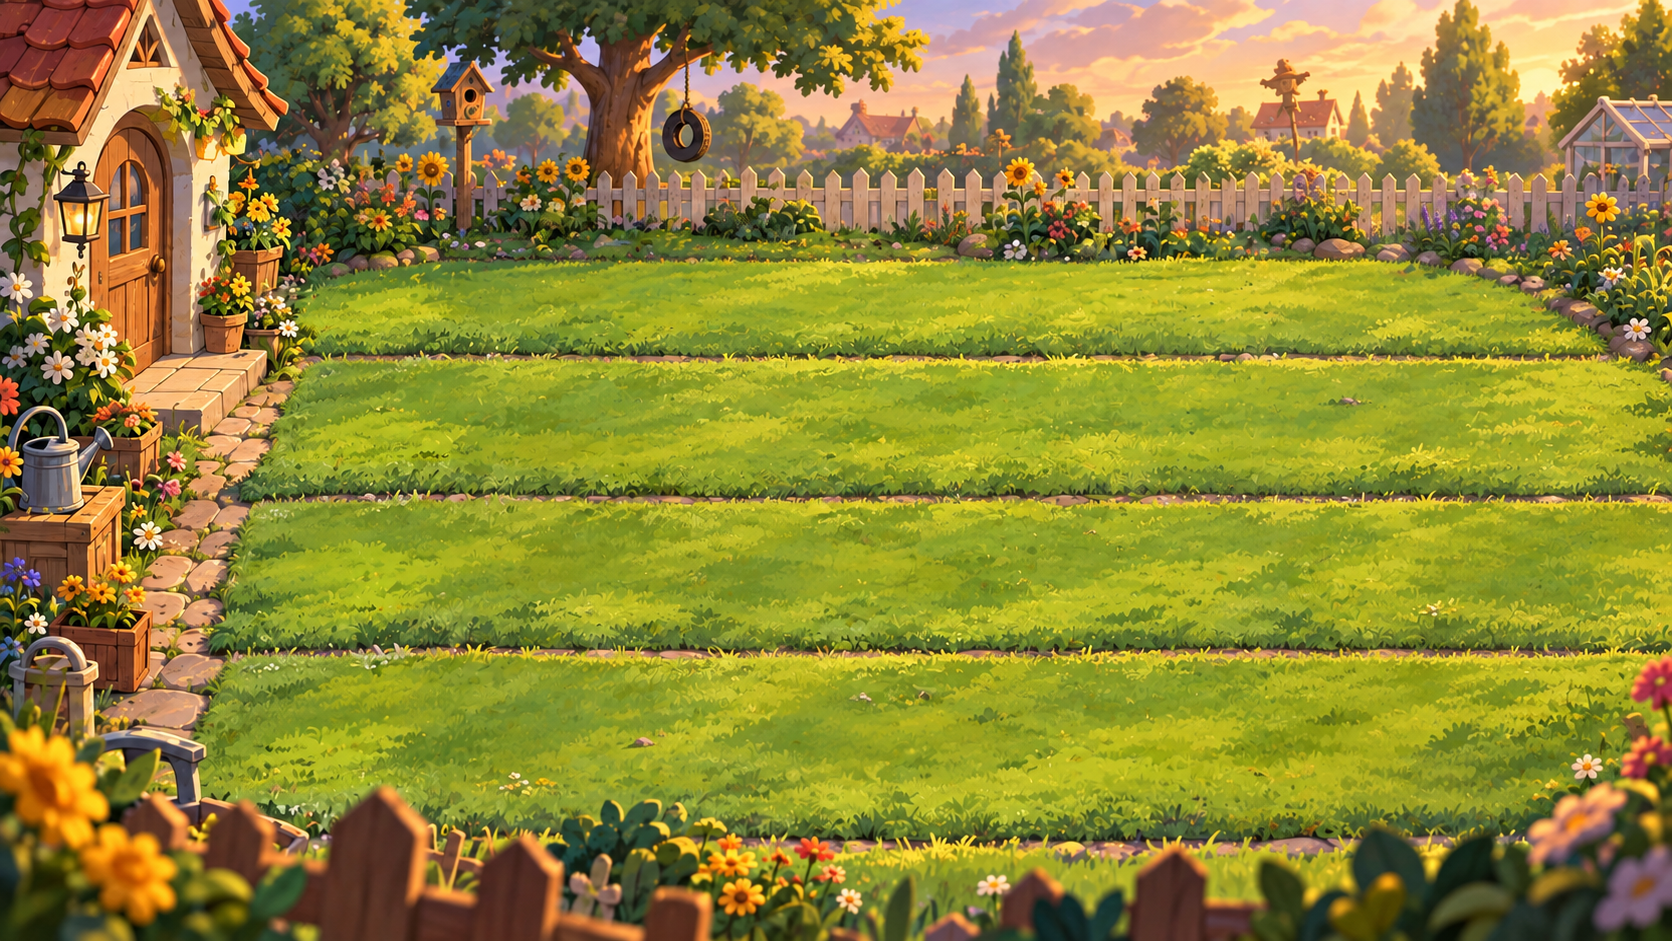
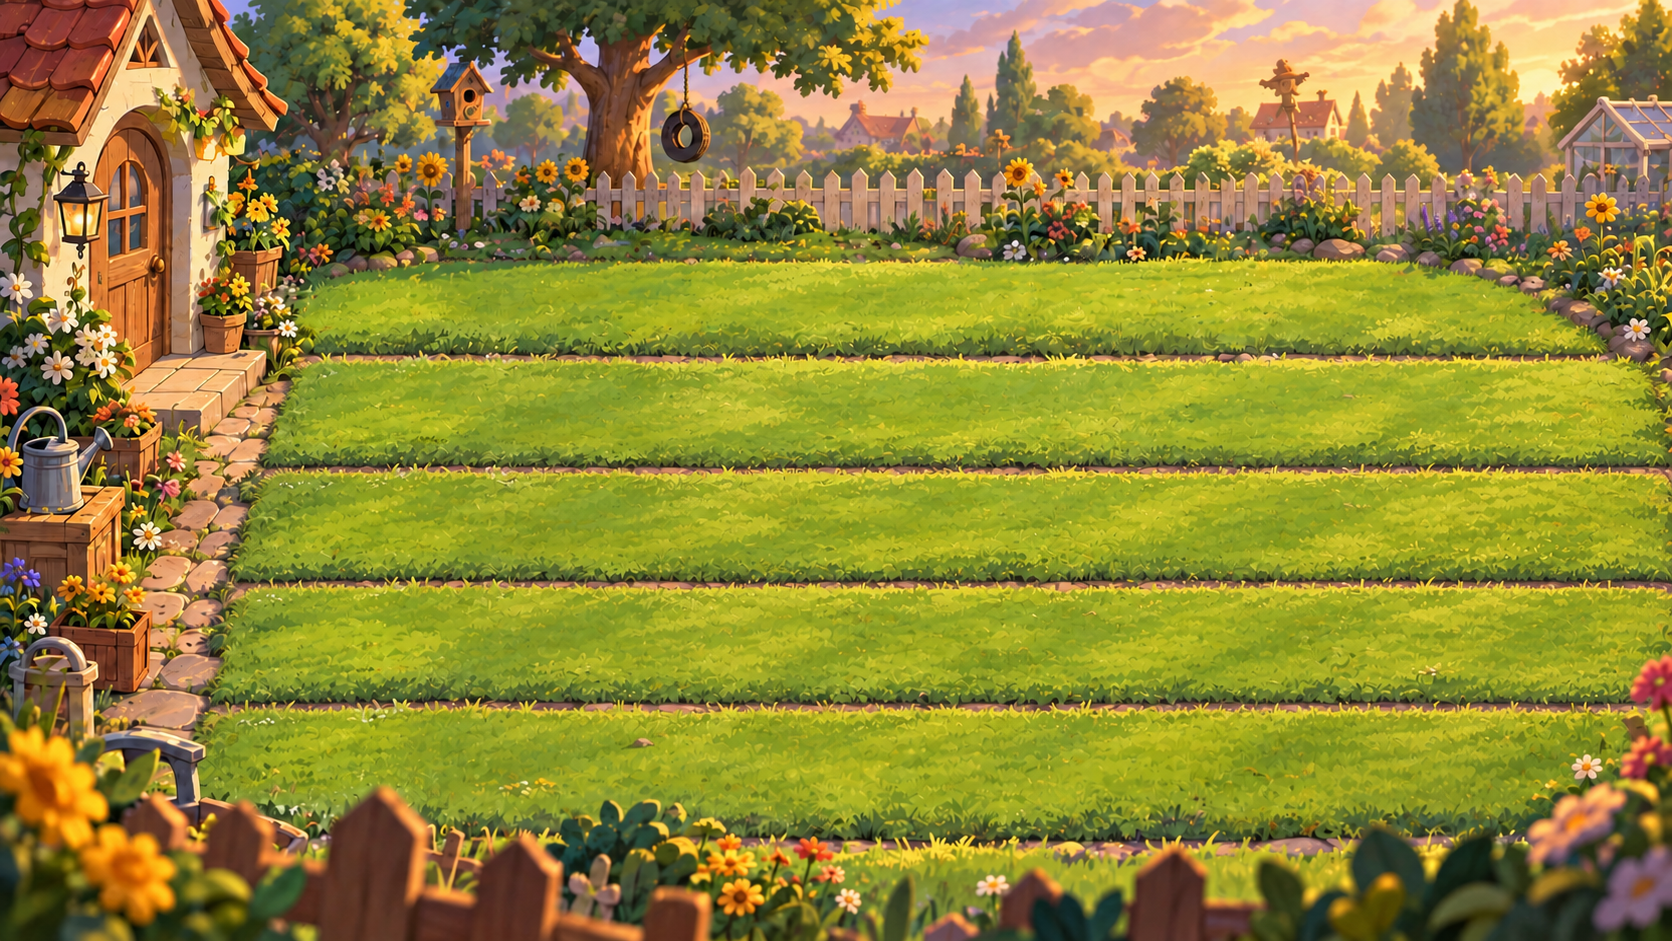
fix: align battlefield artwork with five lanes

Changed region(s): [[0.0, 0.0, 1.0, 0.9862], [0.9641, 0.0925, 1.0, 0.1849], [0.933, 0.0616, 0.9641, 0.0925]]

diff --git a/src/main.js b/src/main.js
@@ -2,7 +2,7 @@ import Phaser from "phaser";
 
 const WIDTH = 1600;
 const HEIGHT = 900;
-const BOARD = { x: 240, y: 220, cols: 9, rows: 5, cellW: 140, cellH: 124 };
+const BOARD = { x: 240, y: 245, cols: 9, rows: 5, cellW: 140, cellH: 108 };
 const TOTAL_WAVES = 6;
 const PHASE_DURATION = 32;
 
